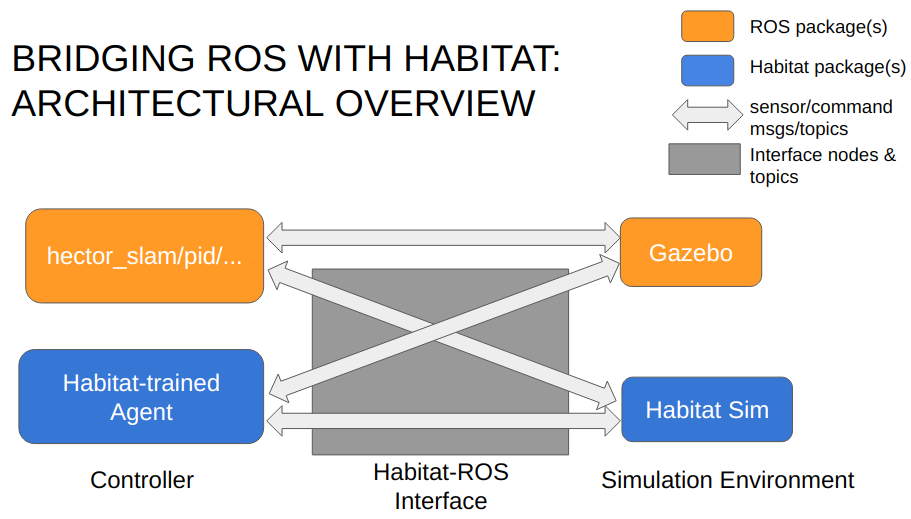
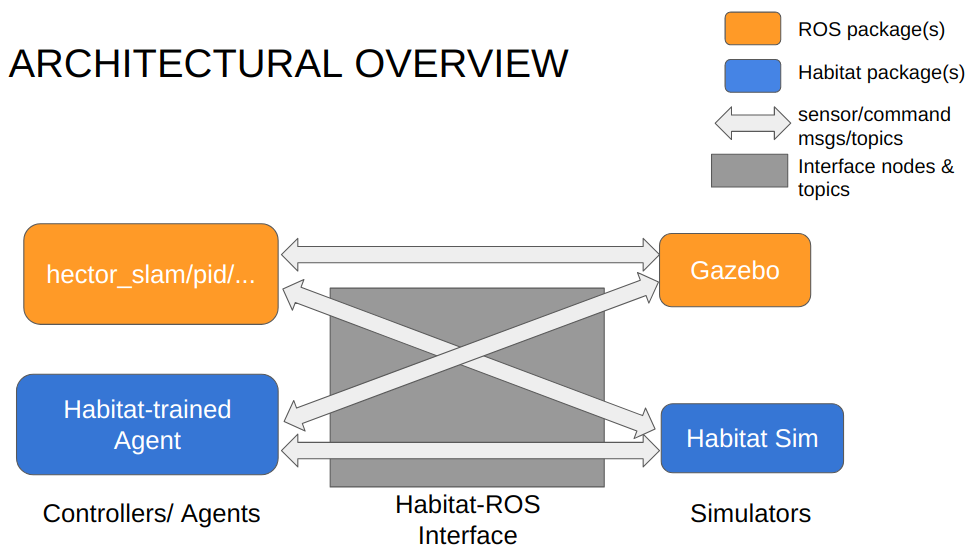
added more details on the ROS-Hab interface's arch

diff --git a/tech-exp/vcr.md b/tech-exp/vcr.md
@@ -21,26 +21,50 @@ Under [Prof. Ian Mitchell](https://www.cs.ubc.ca/~mitchell/)'s supervision, I ha
 AI Habitat provides novel methods for defining tasks and RL-based agents, and a simulator better in photo-realism than Gazebo, the simulator that comes with ROS. ROS on the other hand is where most traditional agents or software in general run within. So we aim to bridge the gap between the frameworks.
 
 ### What should the Interface Do?
-Built upon existing work by [Bruce Cui](https://ca.linkedin.com/in/brucecui97), I'm continuing the development of the ROS-Habitat Interface. Specifically, for the interface, we want it to be able to
-* allow communication between agents trained under Habitat to use ROS-based simulators;
-* allow communication between agents from ROS packages work under Habitat Sim.
+#### Design Requirements
+Built upon existing work by [Bruce Cui](https://ca.linkedin.com/in/brucecui97), I am continuing the development of the ROS-Habitat Interface. Specifically, for the interface, we want it to be able to
+* allow communication between agents (i.e. controllers) trained under Habitat to use ROS-based simulators;
+* allow communication between agents/controllers from ROS packages work under Habitat Sim.
 
+#### Architecture
 Here is an architectural diagram of the interface:
 
 ![](ros_x_hab_interface_arch.PNG)
 *Architecture of ROSxHabitat Interface. Grabbed from my presentation slides for VCR*
 
-To summarize, the interface can work in two modes:
-* **Mode A** - in the mode under which the interface allows ROS-based agents run in Habitat Sim, the interface receives linear and angular velocity commands from ROS topic `cmd_vel/`, and it assigns those velocities to the embodied agent in Habitat Sim to enact a movement.
-* **Mode B** - in the mode under which the interface allows Habitat-trained RL agents run in either 1) the Gazebo simulator from ROS or 2) in Habitat Sim, the interface receives **discrete-action commands** (such as _move forward by 0.25m_, _turn left by 10 degrees_, etc.) from an RL agent, and converts each command into a set of **linear and angular velocities**. It then publishes the velocities to `cmd_vel/`. Then if we want the Gazebo simulator to simulate the agent, Gazebo would be able to pick up those velocities to enact movements of the embodied agent within. If we want Habitat Sim to simulate the agent, the interface would work in a similar fashion to Mode A - intercepting linear and angular velocity commands from `cmd_vel/` and send them to Habitat Sim.
+In the diagram, the blocks represent ROS/Habitat packages as collections of [ROS nodes](http://wiki.ros.org/Nodes) and [ROS topics](http://wiki.ros.org/Topics); the arrows represent passing of [ROS messages](http://wiki.ros.org/Messages) from one package to another. **The interface as represented by the grey block works as a collection of ROS nodes and ROS topics, that translates messages from controllers' side to simulators' side, and vice versa.**
+
+#### The Two Modes of Operation
+The interface can operate in two modes:
+##### Mode A
+Mode A allows ROS-based agents run in Habitat Sim. Under this mode, the interface receives linear and angular velocity commands from ROS topic `cmd_vel/`, and assigns those velocities to the embodied agent in Habitat Sim to enact a movement.
+
+This diagram illustrates the working of Mode A:
+![](ros_x_hab_interface_mode_a.PNG)
+*Architecture of Mode A, under which a ROS-based agent runs in Habitat Sim. Grabbed from my presentation slides for VCR*
+
+As you can see, the darkened arrow represents communication between agents from ROS packages and Habitat Sim.
+
+##### Mode B
+Mode B allows Habitat-trained RL agents run in either 1) a simulator from ROS, or 2) in Habitat Sim. During operation, the interface receives **discrete-action commands** (such as _move forward by 0.25m_, _turn left by 10 degrees_, etc.) from a RL agent trained under AI Habitat, and converts each command into a set of **linear and angular velocities**. It then publishes the velocities to `cmd_vel/`. Then if we want the Gazebo simulator to simulate the agent, Gazebo would be able to pick up those velocities to enact movements of the embodied agent within. If we want Habitat Sim to simulate the agent, the interface would work in a similar fashion to Mode A - intercepting linear and angular velocity commands from `cmd_vel/` and send them to Habitat Sim.
+
+This diagram illustrates the working of Mode B:
+![](ros_x_hab_interface_mode_b.PNG)
+*Architecture of Mode B, under which a Habitat-based agent runs in ROS or Habitat simulators. Grabbed from my presentation slides for VCR*
+
+As you can see, the darkened arrow represents communication between Habitat-trained agents and simulators in ROS, such as Gazebo.
 
 ## My roles in the project
+### Updating Mode A - allowing agents from ROS packages work under Habitat Sim
+#### Refactoring Existing Work
+Bruce has already got a prototypical Mode A working by the time I entered the project. However, the official AI Habitat API have been updated by a lot since Bruce finished the prototype in August 2019. The updates that affect Mode A are mostly trivial - like a class moved from one file to another. I refactored Bruce's Python implementation to accomodate these updates.
+
 ### Updating Mode B - allowing Habitat-trained agents work under ROS simulators
 #### Refactoring Existing Work
-Bruce has already got a prototypical Mode B working by the time I entered the project. However, AI Habitat has been updated by a lot since Bruce finished the prototype in August 2019. So I picked up on his Python implementation, and refactored it to accomodate updates in AI Habitat.
+Bruce has already implemented a prototypical Mode B before I entered the project. Similar to modifying his Mode A implementation, I updated his Mode B implementation to accomodate updates from the official AI Habitat code base.
 
 #### Ensuring Performance Consistency
-More importantly, recently updates on Habitat Sim incorporated the Bullet Physics engine to simulate physics effects, such as gravity, collisions, and friction. **These updates have led us to rethink how we should convert discrete actions into continuous velocities. Since the agents are RL-based, how would the conversion affect their performance? We need to make sure the interface has minimal impact on a Habitat-trained agent's performance in a simulation environment - i.e. what I refer as _performance consistency_.** To this end, I have completed or been working on the following tasks:
+More importantly, recently updates on Habitat Sim incorporated the Bullet Physics engine to simulate physics effects, such as gravity, collisions, and friction. These updates have led us to rethink how we should convert discrete actions into continuous velocities. Since the agents are RL-based, how would the conversion affect their performance? **We need to make sure the interface has minimal impact on a Habitat-trained agent's performance in a simulation environment - i.e. what I refer as _performance consistency_.** To this end, I have completed or been working on the following tasks:
 
 ##### Conducting Literature Review on AI Habitat
 To do anything meaningful, I reviewed the paper ["Habitat: a Platform for Embodied AI Research"](https://openaccess.thecvf.com/content_ICCV_2019/papers/Savva_Habitat_A_Platform_for_Embodied_AI_Research_ICCV_2019_paper.pdf) to understand basic concepts of reinforcement learning (RL) and physics-based simulation.
@@ -58,9 +82,12 @@ So far, I have considered the following key parameters for conversion from discr
 These numbers have really been just arbitrarily set. I will later test how they will affect performance consistency.
 
 ##### Evaluating Performance Consistency in Mode B
-I am writing a script to instantiate a Habitat-trained agent, let it complete multiple point-goal navigation episodes, and compare its performance between 1) running in Habitat Sim with discrete action outputs and 2) running in Habitat Sim with continuous velocities as outputs. The comparision will allow me to know if the parameters I have selected in the previous step can ensure performance consistency or not. If not, I will investigate why.
+I am writing scripts to instantiate a Habitat-trained agent, let it complete multiple point-goal navigation episodes, and compare its performance between 
+* running in Habitat Sim with discrete action outputs, and 
+* running in Habitat Sim with continuous velocities as outputs. 
+The comparision will allow me to know if the parameters I have selected in the previous step can ensure performance consistency or not. If not, I will investigate why.
 
-Besides Habitat Sim, I will carry out the same comparision in other simulators, such as Gazebo.
+Since Mode B should allow a Habitat-based agent to work in simulators from ROS packages as well, I will also carry out the comparison in simulators such as Gazebo.
 
 ### Evaluating Overall Performance Consistency
-Once Mode B is completed, we will have the full interface. Then I will conduct experiements to make sure the interface also ensures consistency in Mode A. 
+Once Mode B is completed, we will have the full interface. Then I will conduct experiements to make sure the interface also ensures performance consistency in Mode A. 
